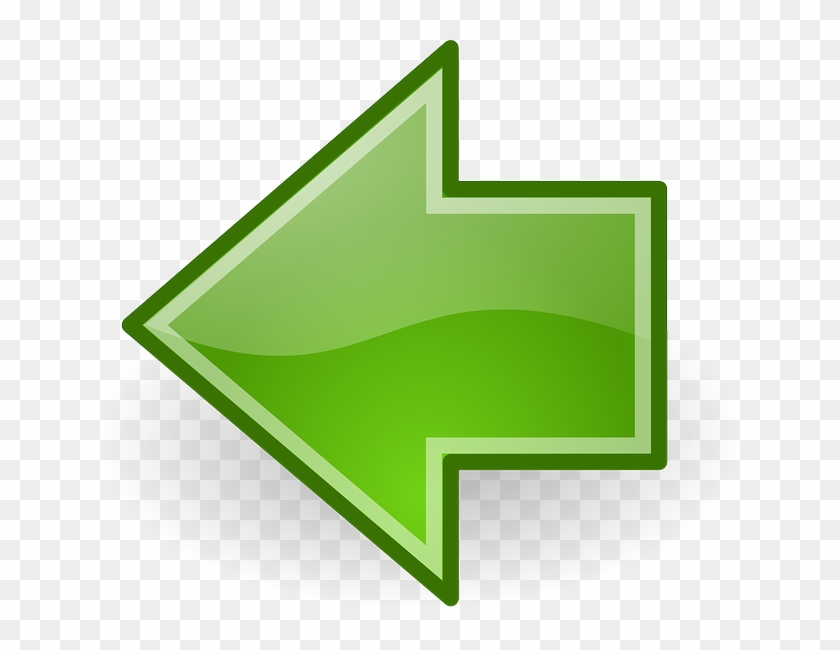
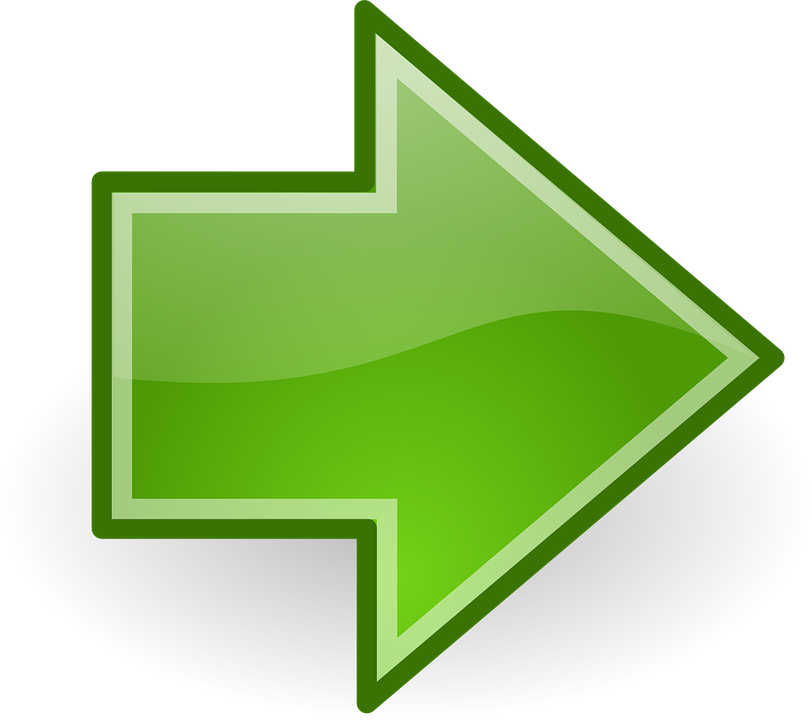
Hay que ajustar las flechas

Changed region(s): [[0.0924, 0.0, 0.9852, 1.0]]

diff --git a/dsi-mockup-pero-en-xaml-xd/gameplay.xaml b/dsi-mockup-pero-en-xaml-xd/gameplay.xaml
@@ -136,6 +136,13 @@
                 </Image.RenderTransform>
             </Image>
         </Button>
+        <Button Grid.Column="0" Margin="0,0,150,150" Grid.Row="1" VerticalAlignment="Bottom" HorizontalAlignment="Right" Height="54" Width="70" Click="Button_Click" Background="Transparent">
+            <Image Source="Assets/green_arrow.png" RenderTransformOrigin="0.5,0.5">
+                <Image.RenderTransform>
+                    <CompositeTransform Rotation="90"/>
+                </Image.RenderTransform>
+            </Image>
+        </Button>
         <Grid x:Name="Pause" Grid.RowSpan="3" Grid.ColumnSpan="3" Background="Black" Visibility="Collapsed" Opacity="0.7" CornerRadius="40" Margin="250,0,250,0">
 
             <Grid.RowDefinitions>
